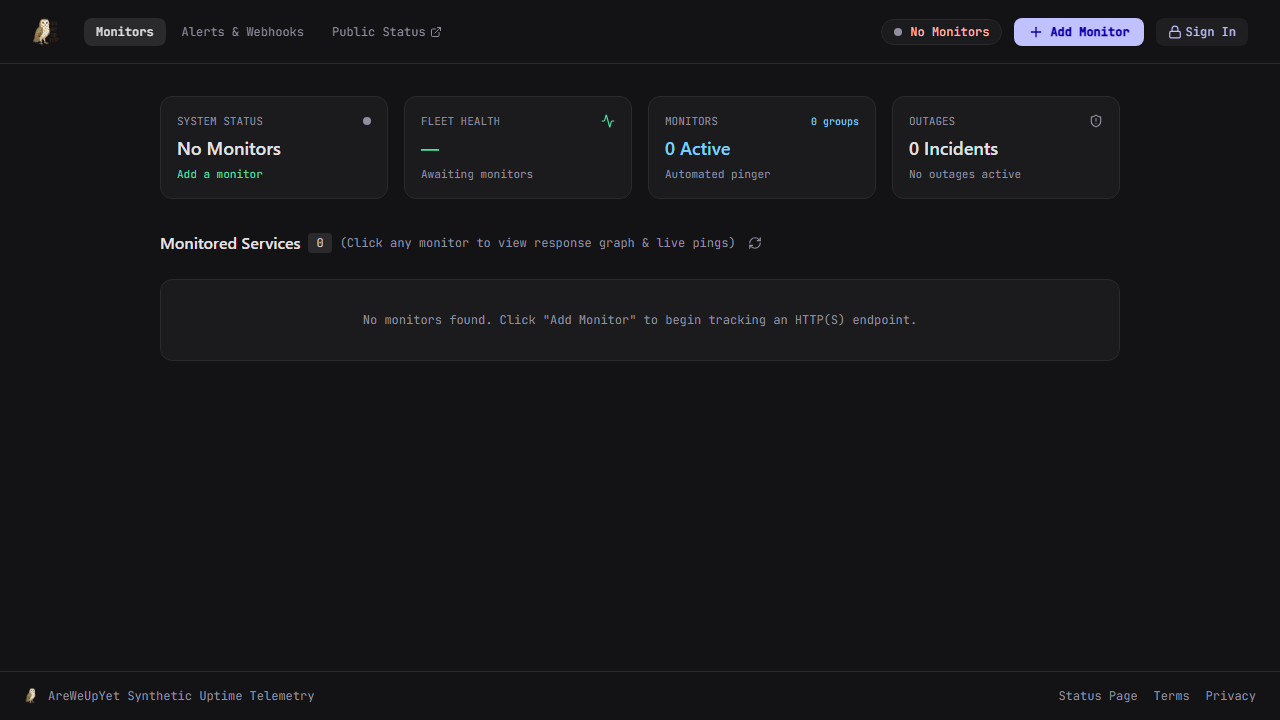
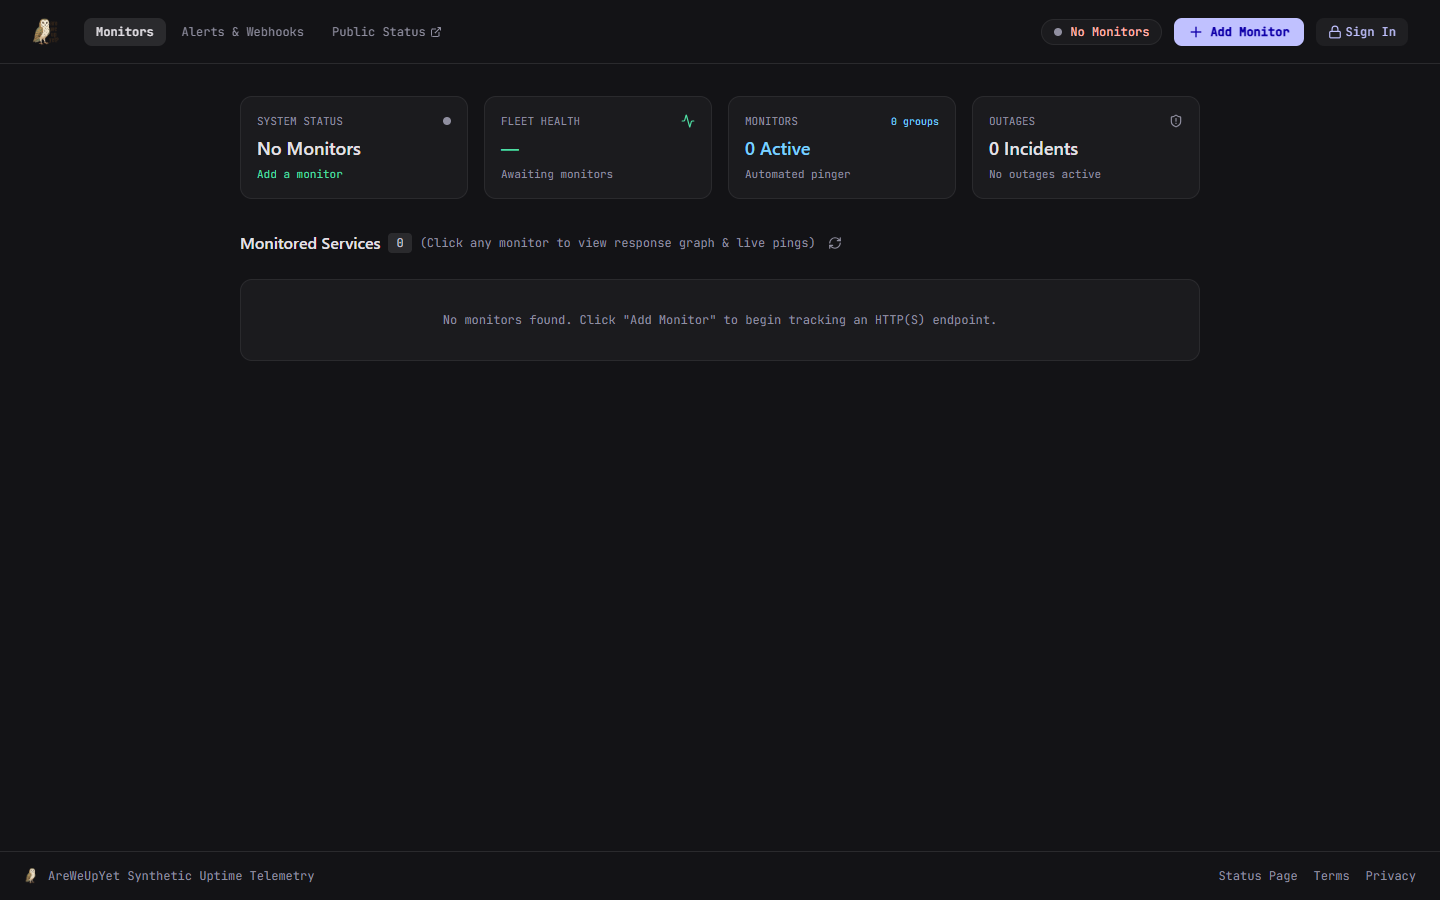
docs: overhaul README formatting, clean architecture diagram, and update screenshots
- Fix markdown code blocks in architecture and quickstart sections
- Remove always-free phrasing and streamline technical overview
- Refresh all interface screenshots with live production fleet data

diff --git a/README.md b/README.md
@@ -1,11 +1,11 @@
-<p align=center>
-  <img src=logo.png alt=AreWeUpYet width=220>
+<p align="center">
+  <img src="logo.png" alt="AreWeUpYet" width="200">
 </p>
 
-<h1 align=center>AreWeUpYet</h1>
+<h1 align="center">AreWeUpYet</h1>
 
-<p align=center>
-  <strong>Multi-tenant synthetic uptime monitoring SaaS engineered to run indefinitely within the AWS Always-Free Tier ($0.00/mo).</strong>
+<p align="center">
+  <strong>Multi-tenant synthetic uptime monitoring with public status pages, incident tracking, and HMAC-signed webhook alerting.</strong>
 </p>
 
 <p align="center">
@@ -14,7 +14,6 @@
   <img src="https://img.shields.io/badge/Go-1.22+-00ADD8?style=flat&logo=go&logoColor=white" alt="Go">
   <img src="https://img.shields.io/badge/React-18-61DAFB?style=flat&logo=react&logoColor=white" alt="React">
   <img src="https://img.shields.io/badge/TypeScript-5.7-3178C6?style=flat&logo=typescript&logoColor=white" alt="TypeScript">
-  <img src="https://img.shields.io/badge/AWS-Always%20Free%20Tier-FF9900?style=flat&logo=amazon-aws&logoColor=white" alt="AWS Free Tier">
   <a href="LICENSE"><img src="https://img.shields.io/badge/License-MIT-blue.svg" alt="MIT License"></a>
 </p>
 
@@ -22,82 +21,72 @@
 
 ## Overview
 
-**AreWeUpYet** is a production-grade synthetic uptime monitoring platform. It continuously evaluates HTTP(S) endpoint availability, records response latency trends, opens/resolves incidents with asymmetric thresholds, and delivers HMAC-signed webhook alerts—all without incurring AWS infrastructure costs.
+AreWeUpYet is a multi-tenant uptime monitoring SaaS. It checks HTTP(S) endpoints on a configurable cadence, renders public view-only status pages, records latency trends, detects outages using consecutive-failure thresholds, and dispatches HMAC-signed webhook notifications.
 
-### Core Highlights
+### Key Features
 
-- **Zero Compute Cost**: Operates entirely within AWS Lambda, DynamoDB, and CloudFront always-free allowances.
-- **SSRF Defense-in-Depth**: Blocks private, loopback, link-local, carrier-grade NAT, and cloud metadata (`169.254.169.254`) addresses at DNS lookup and raw socket connection time.
-- **View-Only Public Status Pages**: Shareable dashboards ([Live Demo](https://main.d3pikhz9umtg2m.amplifyapp.com/#/status/c97a151c-d091-7089-88a9-7a8eee8689b8)) with automatic 30-second polling and unauthenticated read access.
-- **Cryptographic Webhook Delivery**: HMAC-SHA256 signatures (`X-AreWeUpYet-Signature`) with exponential retry backoff.
-- **Multi-Tenant Isolation**: Amazon Cognito User Pool authentication with strict tenant-scoped data partitioning.
+- **Synthetic Probing Engine**: Go-based ping engine with SSRF defense (blocking private, loopback, link-local, and cloud metadata IPs at DNS resolution and socket connection time).
+- **Public View-Only Status Pages**: Shareable status dashboards with 30-second live polling, overall system health, and individual endpoint inspection.
+- **Latency & Incident Tracking**: Tracks 24h/7d/30d uptime percentages, response latency curves, and the latest 5 synthetic checks.
+- **HMAC-SHA256 Webhooks**: Outbound incident notifications (`incident.opened`, `incident.resolved`) signed with per-tenant secrets and exponential backoff retry.
+- **Multi-Tenant Scoping**: Cognito User Pool authentication with strict tenant isolation on all private routes.
 
 ---
 
-## Visual Interface
+## Interface
 
-| Authenticated Telemetry Dashboard | Public View-Only Status Page |
+| Fleet Dashboard | Public Status Page |
 |:---:|:---:|
-| ![Fleet Dashboard](docs/screenshots/05-dashboard-monitors.png) | ![Public Status Page](docs/screenshots/08-status-page.png) |
-| *Live operational health, monitor fleet cards, and collection filters* | *Real-time unauthenticated status page auto-refreshing every 30s ([Live Link](https://main.d3pikhz9umtg2m.amplifyapp.com/#/status/c97a151c-d091-7089-88a9-7a8eee8689b8))* |
+| <img src="docs/screenshots/05-dashboard-monitors.png" width="100%" alt="Fleet Dashboard" /> | <img src="docs/screenshots/08-status-page.png" width="100%" alt="Public Status Page" /> |
+| *Operational overview, monitor fleet, and group filtering* | *View-only status page ([Live Link](https://main.d3pikhz9umtg2m.amplifyapp.com/#/status/c97a151c-d091-7089-88a9-7a8eee8689b8))* |
 
-| Latency Trend & Probe Inspector | Alerts & HMAC Webhook Config |
+| Latency & Probe Inspector | Alerts & Webhooks |
 |:---:|:---:|
-| ![Probe Inspector](docs/screenshots/06-endpoint-detail.png) | ![Webhook Settings](docs/screenshots/07-settings.png) |
-| *SVG latency trends, 24h/7d/30d uptime accounting, latest 5 pings* | *Webhook payload signing secret with immediate test dispatch* |
+| <img src="docs/screenshots/06-endpoint-detail.png" width="100%" alt="Probe Inspector" /> | <img src="docs/screenshots/07-settings.png" width="100%" alt="Webhook Settings" /> |
+| *Response time trends, uptime %, and latest 5 probes* | *HMAC signing secret and outbound webhook dispatch* |
 
 ---
 
 ## Architecture
 
-`	ext
+```text
 GitHub Push ──► AWS Amplify Gen 2 (CI/CD)
                      ├─ Frontend: React SPA (Vite + Tailwind CSS on CloudFront)
-                     └─ Backend: In-Repo CDK Definition (amplify/backend.ts)
-                          ├─ Cognito User Pool: Multi-tenant auth & session tokens
-                          ├─ DynamoDB Tables: Endpoints, PingResults (90d TTL), Incidents
+                     └─ Backend: CDK Definition (amplify/backend.ts)
+                          ├─ Cognito User Pool: Authentication & tenant JWT tokens
+                          ├─ DynamoDB: Endpoints, PingResults (90d TTL), Incidents
                           └─ Go Lambda Functions (provided.al2023, x86_64):
-                               ├─ Dispatcher   ── EventBridge rate(1m) ──► DueCheck GSI scan & pings
-                               ├─ ApiPrivate   ── Function URL (Cognito) ──► Monitor CRUD & manual checks
-                               ├─ ApiPublic    ── Function URL (Open)   ──► Public status & history
-                               └─ Notifier     ── Event worker          ──► HMAC signed webhooks
-`
-
-### AWS Always-Free Cost Breakdown
-
-| Service | Monthly Usage (1 Tenant, 20 Probes @ 5m) | AWS Always-Free Allowance | Net Cost |
-|:---|:---|:---|:---:|
-| **AWS Lambda** | ~63,000 invocations · ~4,000 GB-seconds | 1,000,000 requests · 400,000 GB-s | **$0.00** |
-| **Amazon DynamoDB** | ~0.26 GB storage · 173K writes · 68K reads | 25 GB storage · 2.5M reads · 1M writes | **$0.00** |
-| **Amazon Cognito** | < 10 active administrators | 50,000 MAU | **$0.00** |
-| **Lambda Function URLs** | Direct HTTP invocations (No API Gateway) | $0.00 per-request baseline | **$0.00** |
-| **Amazon EventBridge** | 43,200 scheduled ticks (1-minute cadence) | Always Free | **$0.00** |
-| **CloudWatch Alarms** | 1 metric alarm (Dispatcher error monitoring) | 10 metric alarms | **$0.00** |
-| **Amplify Hosting** | Client-side static SPA bundle (~340 KB) | 15 GB bandwidth | **$0.00** |
-| **Total** | | | **$0.00/mo** |
+                               ├─ Dispatcher   ── EventBridge rate(1m) ──► Scans due checks & pings
+                               ├─ ApiPrivate   ── Function URL (Cognito) ──► Fleet CRUD & manual checks
+                               ├─ ApiPublic    ── Function URL (Public)  ──► Status page & history
+                               └─ Notifier     ── Event worker          ──► HMAC-signed webhooks
+```
 
 ---
 
-## Security & Anti-Abuse Controls
+## Security & Reliability
 
-1. **SSRF Guard (internal/ssrfguard)**: Prohibits requests to 127.0.0.0/8, 10.0.0.0/8, 172.16.0.0/12, 192.168.0.0/16, 169.254.0.0/16 (AWS IMDS), and loopback IPv6 (::1). Enforces connect-time IP re-verification to neutralize DNS rebinding attacks.
-2. **Production Identity Scoping**: Lambda functions derive 	enantId exclusively from verified Cognito JWT sub claims. Unauthenticated requests attempting to supply arbitrary X-Tenant-ID headers are rejected with HTTP 401 Unauthorized.
-3. **Multi-Tier Rate Limiting**:
-   - **Manual Probes**: 30-second cooldown per endpoint + 5-second workspace-wide cooldown (HTTP 429 with Retry-After).
-   - **Webhook Tests**: Maximum 2 outbound dispatches per 10 seconds per tenant.
-   - **Public Status API**: Sliding-window limiter (60 req/min per client IP) protecting DynamoDB read throughput.
-4. **Optimistic Overlap Locking**: Dispatcher conditional updates (DueCheck GSI) ensure overlapping Lambda invocations never duplicate probe executions.
+1. **SSRF Guard (`internal/ssrfguard`)**: Rejects `127.0.0.0/8`, `10.0.0.0/8`, `172.16.0.0/12`, `192.168.0.0/16`, `169.254.0.0/16` (AWS IMDS), and loopback IPv6 (`::1`). Verifies IP addresses at socket dial time to prevent DNS rebinding.
+2. **Tenant Identity Enforcement**: Production API derives `tenantId` strictly from verified Cognito JWT `sub` claims, preventing tenant impersonation.
+3. **Rate Limiting**:
+   - Manual check probes: 30-second cooldown per endpoint, 5-second cooldown per tenant.
+   - Webhook testing: Max 2 dispatches per 10 seconds per tenant.
+   - Public status API: 60 requests/minute per client IP.
+4. **Dispatcher Concurrency Control**: Conditional DynamoDB updates ensure overlapping Lambda ticks do not double-check the same endpoint.
 
 ---
 
 ## Quickstart
 
 ### Prerequisites
-- **Go** >= 1.22
-- **Node.js** >= 20 & **npm** >= 10
+
+- Go >= 1.22
+- Node.js >= 20
+- npm >= 10
 
 ### 1. Local Development
-`ash
+
+```bash
 # Clone repository
 git clone https://github.com/pjpangilinan/areweupyet.git
 cd areweupyet
@@ -106,74 +95,78 @@ cd areweupyet
 npm ci
 cd frontend && npm ci && cd ..
 
-# Start local backend (port 8080, in-memory store, 10s synthetic ticker)
+# Start local backend (port 8080)
 npm run dev:backend
 
 # In a separate terminal, start frontend (port 5173)
 npm run dev:frontend
-`
+```
 
-### 2. Run Test Suite
-`ash
-# Execute all Go package tests
+### 2. Run Tests
+
+```bash
+# Run backend Go tests
 npm run test:go
 
-# Execute frontend TypeScript check & Vite build
+# Run frontend build & typecheck
 npm run build:frontend
-`
+```
 
-### 3. Standalone CLI Pinger (Zero AWS Dependency)
-`ash
+### 3. Standalone CLI Pinger
+
+Run the zero-dependency CLI pinger directly against any URL:
+
+```bash
 go build -o pinger ./cmd/pinger
 ./pinger https://example.com
-`
+```
 
 ---
 
 ## API Reference
 
-### Private API (ApiPrivateFunction · Cognito Bearer Auth)
+### Private API (`ApiPrivateFunction` · Cognito Bearer Auth)
 
-| Method | Endpoint | Description | Rate Limit |
+| Method | Route | Description | Rate Limit |
 |:---|:---|:---|:---:|
-| GET | /endpoints | List tenant's configured monitors | Standard |
-| POST | /endpoints | Create new monitor (max 20 per tenant) | Standard |
-| GET | /endpoints/{id} | Inspect monitor details | Standard |
-| PUT | /endpoints/{id} | Update URL, name, cadence, or timeout | Standard |
-| DELETE| /endpoints/{id} | Cascade delete monitor, pings, and incidents | Standard |
-| POST | /endpoints/{id}/check| Trigger immediate synthetic probe | 30s per endpoint / 5s tenant |
-| POST | /settings/webhook/test| Dispatch test webhook to external URL | 2 per 10s |
+| `GET` | `/endpoints` | List tenant monitors | Standard |
+| `POST` | `/endpoints` | Create new monitor (max 20 per tenant) | Standard |
+| `GET` | `/endpoints/{id}` | Get monitor details | Standard |
+| `PUT` | `/endpoints/{id}` | Update URL, name, cadence, timeout | Standard |
+| `DELETE` | `/endpoints/{id}` | Delete monitor, ping history, incidents | Standard |
+| `POST` | `/endpoints/{id}/check` | Trigger immediate synthetic check | 30s endpoint / 5s tenant |
+| `POST` | `/settings/webhook/test` | Dispatch test webhook | 2 per 10s |
 
-### Public API (ApiPublicFunction · Unauthenticated Read)
+### Public API (`ApiPublicFunction` · Unauthenticated Read)
 
-| Method | Endpoint | Description | Rate Limit |
+| Method | Route | Description | Rate Limit |
 |:---|:---|:---|:---:|
-| GET | /status/{tenantId} | Public system health & monitored services summary | 60 req/min per IP |
-| GET | /status/{tenantId}/endpoints/{id}/history | Availability metrics (24h/7d/30d), timeline, latest 5 pings | 60 req/min per IP |
+| `GET` | `/status/{tenantId}` | Public status summary & monitored fleet | 60 req/min per IP |
+| `GET` | `/status/{tenantId}/endpoints/{id}/history` | Availability metrics, incident timeline, latest 5 pings | 60 req/min per IP |
 
-### Webhook Delivery Specification
+### Webhook Specification
 
-Payloads are delivered via POST with Content-Type: application/json and signed with an HMAC-SHA256 token:
+Outbound webhooks are sent via POST with `Content-Type: application/json` and signed with an HMAC-SHA256 signature in the `X-AreWeUpYet-Signature` header:
 
-`json
+```json
 {
-  event: incident.opened,
-  tenantId: c97a151c-d091-7089-88a9-7a8eee8689b8,
-  endpointId: 7a59d40e9d167914,
-  endpointUrl: https://d1cdomhzh1pe4j.cloudfront.net,
-  incidentId: inc-4a2f8b1c,
-  startedAt: 2026-09-09T15:14:11Z,
-  resolvedAt: null,
-  durationSeconds: 0
+  "event": "incident.opened",
+  "tenantId": "c97a151c-d091-7089-88a9-7a8eee8689b8",
+  "endpointId": "7a59d40e9d167914",
+  "endpointUrl": "https://d1cdomhzh1pe4j.cloudfront.net",
+  "incidentId": "inc-4a2f8b1c",
+  "startedAt": "2026-09-09T15:14:11Z",
+  "resolvedAt": null,
+  "durationSeconds": 0
 }
-`
+```
 
-`http
+```http
 X-AreWeUpYet-Signature: sha256=d2c67f8a9e0b1c2d3e4f5a6b7c8d9e0f1a2b3c4d5e6f7a8b9c0d1e2f3a4b5c6d
-`
+```
 
 ---
 
 ## License
 
-Distributed under the **MIT License**. See [LICENSE](LICENSE) for terms.
+MIT
